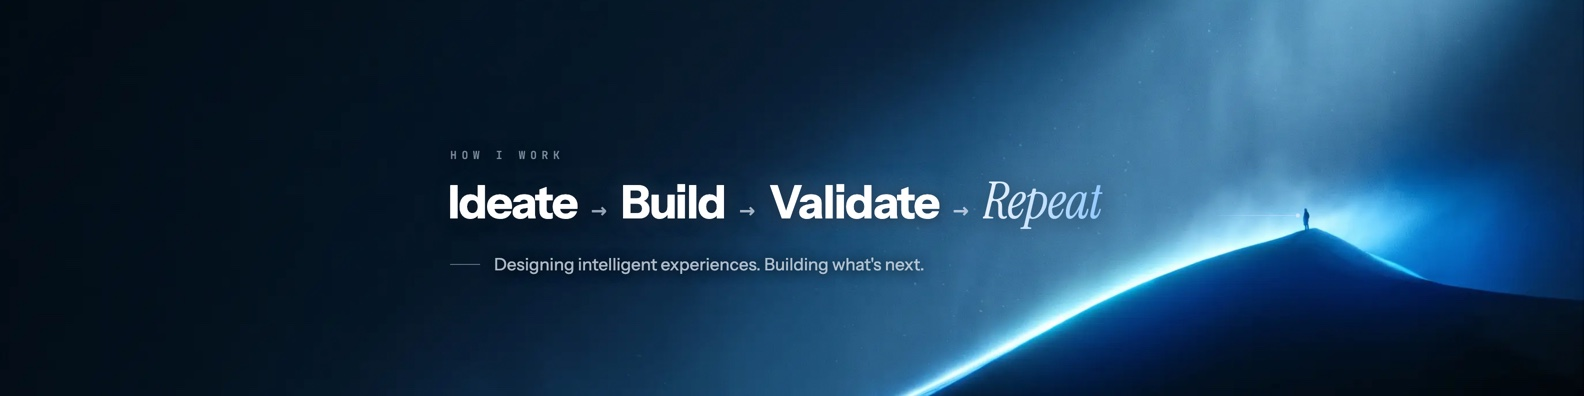
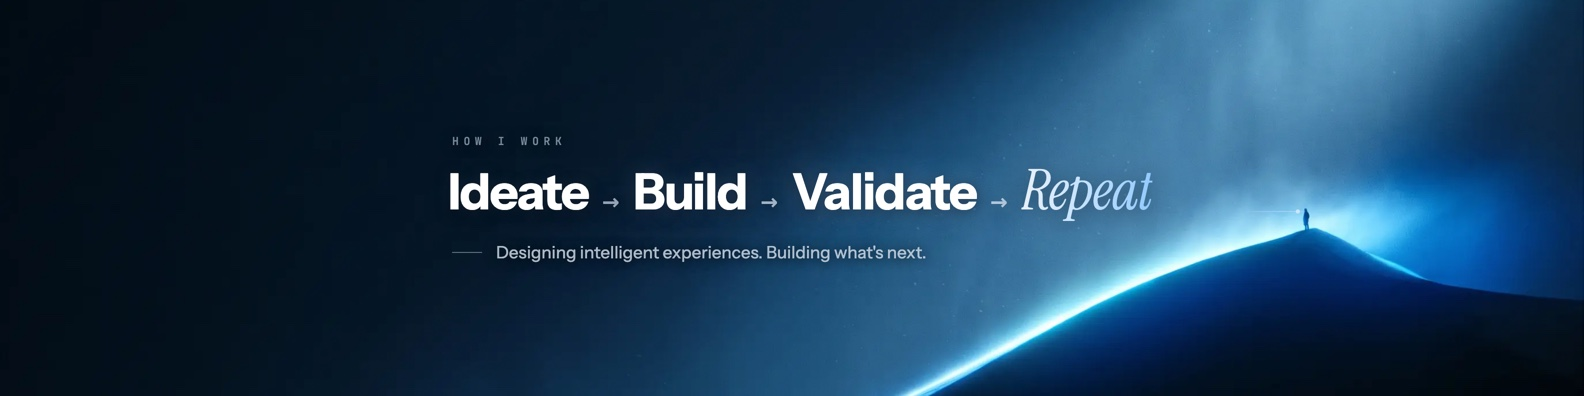
polish(brand): linkedin cover v3.7 — the middle rises
The centre block grows a step (50px sans / 56px serif) and lifts ~14px;
kicker, tagline and leader move with it.

Changed region(s): [[0.2784, 0.4242, 0.7424, 0.5758], [0.3093, 0.6061, 0.5878, 0.697], [0.2784, 0.3333, 0.3712, 0.3939]]

diff --git a/linkedin-cover.html b/linkedin-cover.html
@@ -30,18 +30,18 @@
 
     /* ── the loop, poster-sized, over the dark sky ── */
     .kicker {
-      position: absolute; left: 450px; top: 148px; z-index: 4;
+      position: absolute; left: 452px; top: 134px; z-index: 4;
       font-family: 'JetBrains Mono', monospace; font-weight: 500;
       font-size: 11px; letter-spacing: .44em; text-transform: uppercase;
       color: rgba(158,178,198,.75); white-space: nowrap;
       text-shadow: 0 1px 12px rgba(2,4,8,.8);
     }
-    .loop { position: absolute; left: 448px; top: 168px; z-index: 4; white-space: nowrap; }
+    .loop { position: absolute; left: 448px; top: 154px; z-index: 4; white-space: nowrap; }
     /* the words respond to the beam: dim in the far dark, brightening toward
        the light, Repeat washed in it */
     .w {
       display: inline-block;
-      font-weight: 700; font-size: 46px; letter-spacing: -0.025em;
+      font-weight: 700; font-size: 50px; letter-spacing: -0.025em;
     }
     .w1 {
       color: #FFFFFF;
@@ -57,7 +57,7 @@
     }
     .w.serif {
       font-family: 'Instrument Serif', Georgia, serif; font-style: italic; font-weight: 400;
-      font-size: 51px; letter-spacing: -0.005em;
+      font-size: 56px; letter-spacing: -0.005em;
       background: linear-gradient(92deg, #E9F1F9 0%, #C4E1FF 48%, #8FC8FF 100%);
       -webkit-background-clip: text; background-clip: text; color: transparent;
       filter: drop-shadow(0 0 24px rgba(140,197,255,.55)) drop-shadow(0 2px 12px rgba(2,4,8,.7));
@@ -65,7 +65,7 @@
     .arrow {
       display: inline-block; margin: 0 14px; transform: translateY(-5px);
       font-family: 'JetBrains Mono', monospace; font-weight: 400;
-      font-size: 26px; vertical-align: middle;
+      font-size: 28px; vertical-align: middle;
       text-shadow: 0 2px 18px rgba(2,4,8,.7);
     }
     .a1 { color: #93A2B4; }
@@ -73,7 +73,7 @@
     .a3 { color: #B4C8DE; text-shadow: 0 0 14px rgba(140,197,255,.3), 0 2px 18px rgba(2,4,8,.7); }
     /* the tagline — a dash and a quiet line beneath the loop */
     .tag {
-      position: absolute; left: 450px; top: 254px; z-index: 4;
+      position: absolute; left: 452px; top: 242px; z-index: 4;
       display: flex; align-items: center; gap: 14px;
       font-weight: 450; font-size: 17px; letter-spacing: .002em;
       color: rgba(214,226,238,.8); white-space: nowrap;
@@ -85,7 +85,7 @@
     }
     /* the leader — a light trace from Repeat to the figure on the crest */
     .leader {
-      position: absolute; left: 1214px; top: 215px; width: 92px; height: 1px; z-index: 3;
+      position: absolute; left: 1244px; top: 211px; width: 62px; height: 1px; z-index: 3;
       background: linear-gradient(to right, transparent 0%, rgba(170,208,255,.5) 30%, rgba(190,220,255,.65) 85%, transparent 100%);
     }
     .leader::after {
